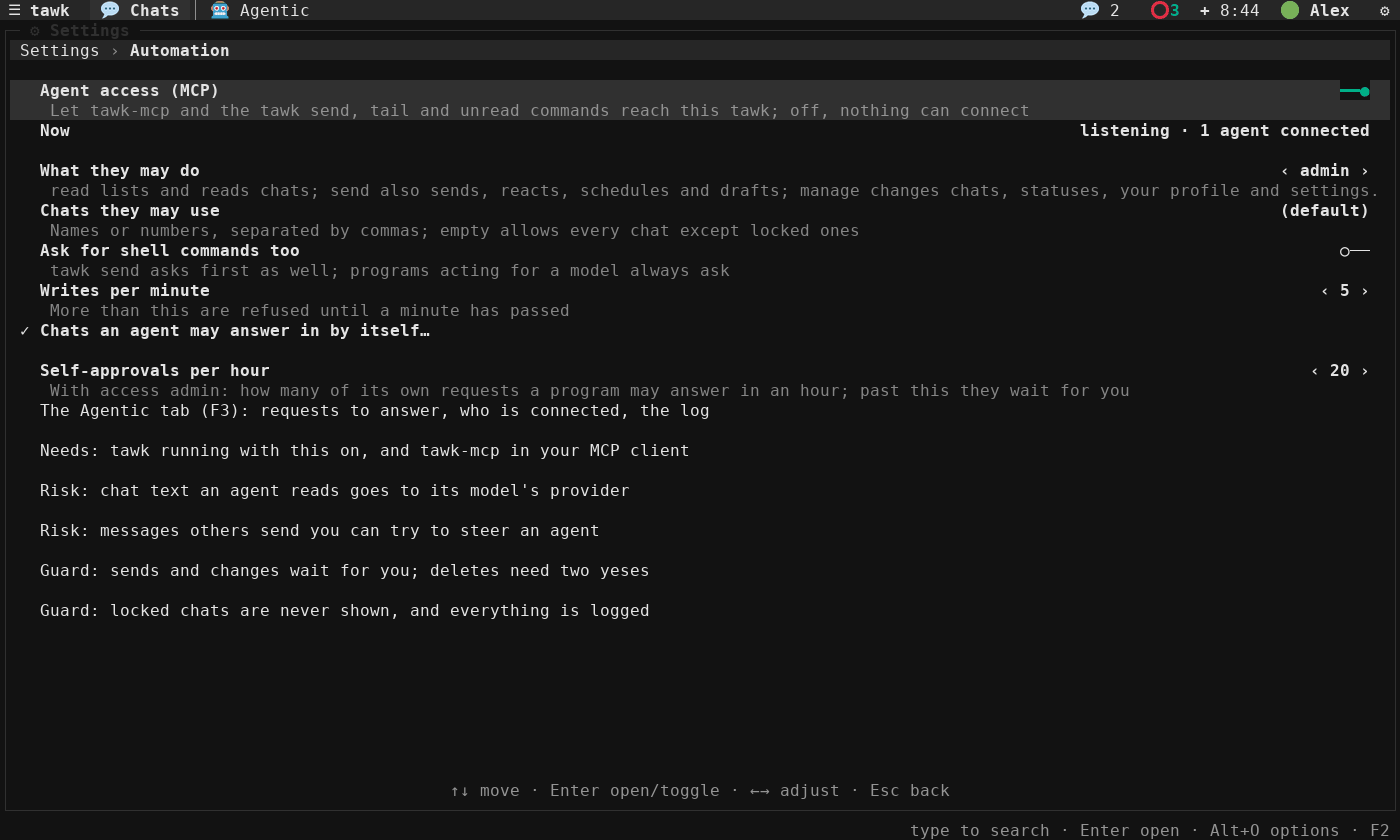
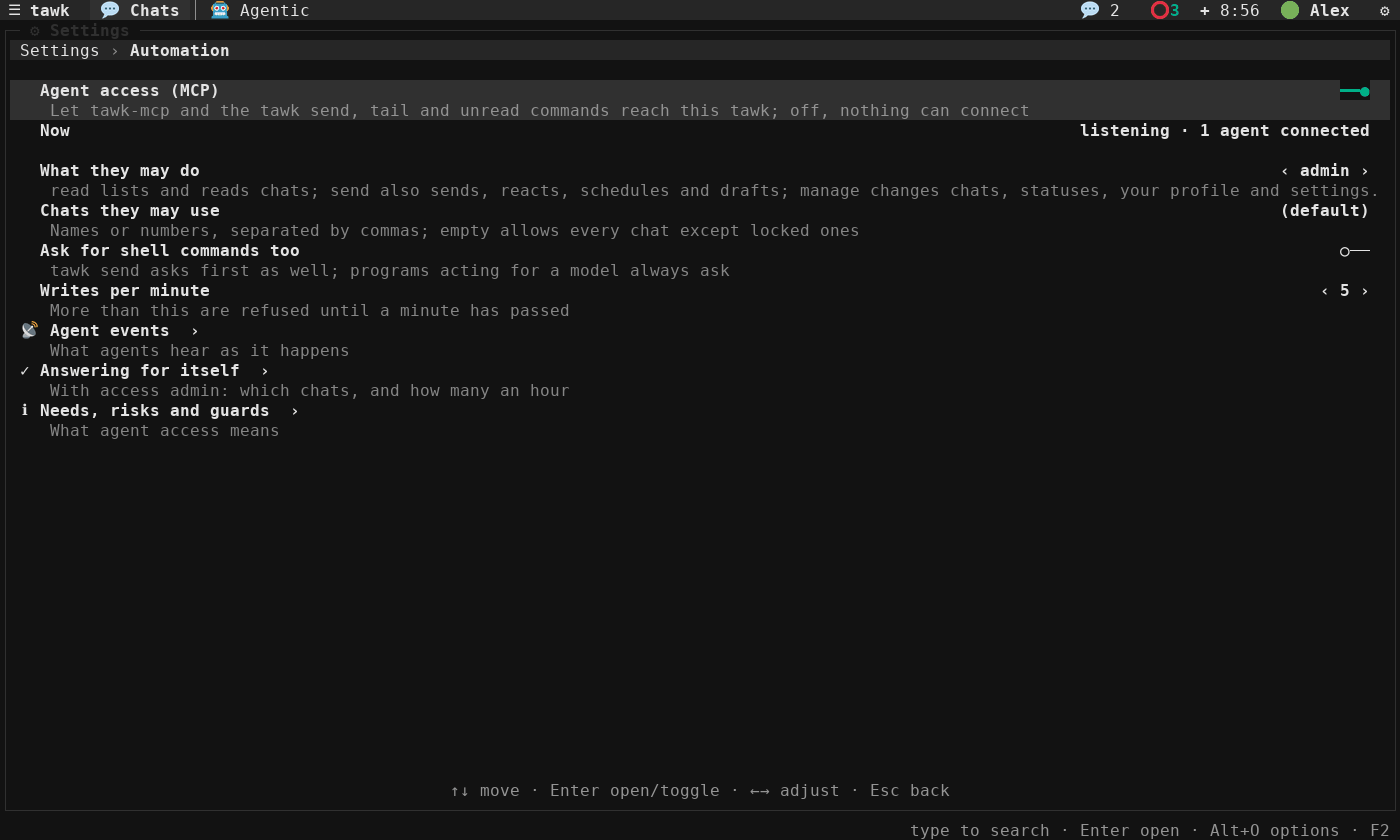
Document the regrouped Automation settings, with redrawn pictures

diff --git a/tools/screenshots/scenes.c b/tools/screenshots/scenes.c
@@ -765,23 +765,26 @@ static void shown_preview(void *ctx, const Theme *theme) { (void)ctx; (void)them
 static void shown_action(void *ctx, MenuAction action) { (void)ctx; (void)action; }
 static void shown_info(void *ctx, MenuInfo info, char *out, size_t size) {
     (void)ctx;
-    str_copy(out, size, info == MENU_INFO_AGENTS ? "listening \xC2\xB7 1 agent connected" : "");
+    str_copy(out, size, info == MENU_INFO_AGENTS ? "listening \xC2\xB7 1 agent connected" : info == MENU_INFO_SELF_CHATS ? "2 chats" : "");
 }
 
-/* Settings, then the entry `steps` down from the top, opened. */
-static void settings_scene(IThemeRepository *themes, int steps, const char *name) {
+/* Settings, then each entry of `path` in turn: that many steps down, and opened. */
+static void settings_scene(IThemeRepository *themes, const int *path, int depth, const char *name) {
     settings_set_defaults(&s_shown_settings);
     s_shown_settings.control_socket = 1;
     s_shown_settings.automation_push_read = 1;
+    s_shown_settings.automation_push_reactions = 1;
     str_copy(s_shown_settings.automation_access, sizeof(s_shown_settings.automation_access), "admin");
     SettingsPanelHost host = { themes, shown_settings, shown_apply, shown_themes, shown_preview, shown_action, shown_info };
     static SettingsPanel panel;
     settings_panel_init(&panel, host);
     settings_panel_open(&panel);
-    draw_app(LIST_HINTS);
-    settings_panel_render(&panel, body(), 0);
-    for (int i = 0; i < steps; i++) settings_panel_key(&panel, 1, KEY_DOWN, 0);
-    settings_panel_key(&panel, 0, '\n', 0);
+    for (int d = 0; d < depth; d++) {
+        draw_app(LIST_HINTS);
+        settings_panel_render(&panel, body(), 0);
+        for (int i = 0; i < path[d]; i++) settings_panel_key(&panel, 1, KEY_DOWN, 0);
+        settings_panel_key(&panel, 0, '\n', 0);
+    }
     draw_app(LIST_HINTS);
     settings_panel_render(&panel, body(), 0);
     save(name);
@@ -818,8 +821,9 @@ int main(int argc, char **argv) {
     status_reply_scene();
     forward_scene();
     self_chats_scene();
-    settings_scene(themes, 7, "settings-automation");
-    settings_scene(themes, 8, "settings-agent-events");
+    settings_scene(themes, (const int[]){ 7 }, 1, "settings-automation");
+    settings_scene(themes, (const int[]){ 7, 6 }, 2, "settings-agent-events");
+    settings_scene(themes, (const int[]){ 7, 7 }, 2, "settings-self-approval");
     scheduled_scene();
     agents_scenes();
     splash_scene();

diff --git a/MANUAL.md b/MANUAL.md
@@ -971,14 +971,22 @@ The same submenu sets how far agents may go:
 | Chats they may use | Names or numbers separated by commas; empty allows every chat except locked ones |
 | Ask for shell commands too | Your own `tawk send` asks first as well (agents always ask) |
 | Writes per minute | More are refused until a minute has passed |
-| Chats an agent may answer in by itself… | With **admin**: opens the list of chats, each with a switch, where an agent holding the admin token may answer its own sends |
+| Agent events | A submenu with a switch for each kind of event agents are told about as it happens |
+| Answering for itself | A submenu for **admin**: the chats an agent may answer its own sends in, and how many an hour |
+| Needs, risks and guards | What agent access needs, what can go wrong and what protects you |
+
+Under **Answering for itself**:
+
+| Setting | What it does |
+|---|---|
+| Choose the chats… | Opens the list of chats, each with a switch |
 | Self-approvals per hour | With **admin**: how many of its own requests an agent may answer in an hour (20 by default); past that they wait for you |
 
 ![The Automation settings](docs/images/settings-automation.png)
 
 ### Agent events
 
-Settings has its own section, **Agent events**, for what agents are told as it happens. An agent that listens, such as tawk-mcp's channel in Claude Code, hears each kind only while its switch is on:
+Settings, Automation has a submenu, **Agent events**, for what agents are told as it happens. An agent that listens, such as tawk-mcp's channel in Claude Code, hears each kind only while its switch is on:
 
 | Switch | Default | What an agent hears |
 |---|---|---|
@@ -1044,7 +1052,9 @@ What changes with admin:
 - tawk writes an **admin token** to `admin.token` beside the control socket (`$XDG_RUNTIME_DIR/tawk/admin.token`, readable by you alone). It is a new token each time tawk starts and each time you switch to admin, and it is removed when you switch away or quit.
 - An agent that shows that token may answer a request it made itself. With tawk-mcp you give it the file with `TAWKMCP_ADMIN_TOKEN_FILE`; an agent without the file, or another agent on the same computer, cannot.
 - Only these can be answered that way: sending a message, replying to a status, forwarding, editing, retrying, scheduling, rescheduling, sending or cancelling a scheduled message, a reaction, a read mark and a like. Changes to chats, your profile, statuses you post, settings, and every delete or block still wait for you.
-- Only in the chats you switch on for it. Settings, Automation, **Chats an agent may answer in by itself…** opens a list of your chats with a switch beside each and an **All chats agents may use** switch on top. Space or a click flips the highlighted switch, Ctrl+A flips All chats, typing searches, Enter saves and Esc leaves things as they were. Up to 24 chats can be switched on one by one; All chats covers every chat agents may use, including ones that appear later. With nothing switched on, nothing is answered this way. This list is separate from **Chats they may use**, which decides what agents can see at all.
+- Only in the chats you switch on for it. Settings, Automation, **Answering for itself** shows how many chats are switched on and the hourly number, and **Choose the chats…** there opens a list of your chats with a switch beside each and an **All chats agents may use** switch on top. Space or a click flips the highlighted switch, Ctrl+A flips All chats, typing searches, Enter saves and Esc leaves things as they were. Up to 24 chats can be switched on one by one; All chats covers every chat agents may use, including ones that appear later. With nothing switched on, nothing is answered this way. This list is separate from **Chats they may use**, which decides what agents can see at all.
+
+![The Answering for itself submenu](docs/images/settings-self-approval.png)
 
 ![The list of chats with a switch each, two of them on](docs/images/self-approval-chats.png)
 - Only so many an hour (**Self-approvals per hour**). Past that, requests wait for you again.

diff --git a/CONFIGURATION.md b/CONFIGURATION.md
@@ -168,7 +168,7 @@ What other programs reaching tawk through its control socket may do: tawk-mcp an
 | `push_reactions` | `off` | The same when someone reacts to a message you sent, or takes a reaction back |
 | `push_edits` | `off` | The same when someone changes or deletes a message they sent |
 | `push_scheduled` | `off` | The same when a message you scheduled goes out |
-| `self_approval_chats` | empty | With `access = admin`: the chats a program may answer its own sends in, as JIDs separated by commas, or `*` for every chat it may use. Empty allows none. Set from Settings, Automation, where each chat has a switch |
+| `self_approval_chats` | empty | With `access = admin`: the chats a program may answer its own sends in, as JIDs separated by commas, or `*` for every chat it may use. Empty allows none. Set from Settings, Automation, Answering for itself, where each chat has a switch |
 | `self_approvals_per_hour` | `20` | With `access = admin`: requests a program may answer itself in an hour (1 to 240); past this they wait for you |
 
 None of these can be changed over the socket, nor can settings that run a program, folders, the backend or the log level.
